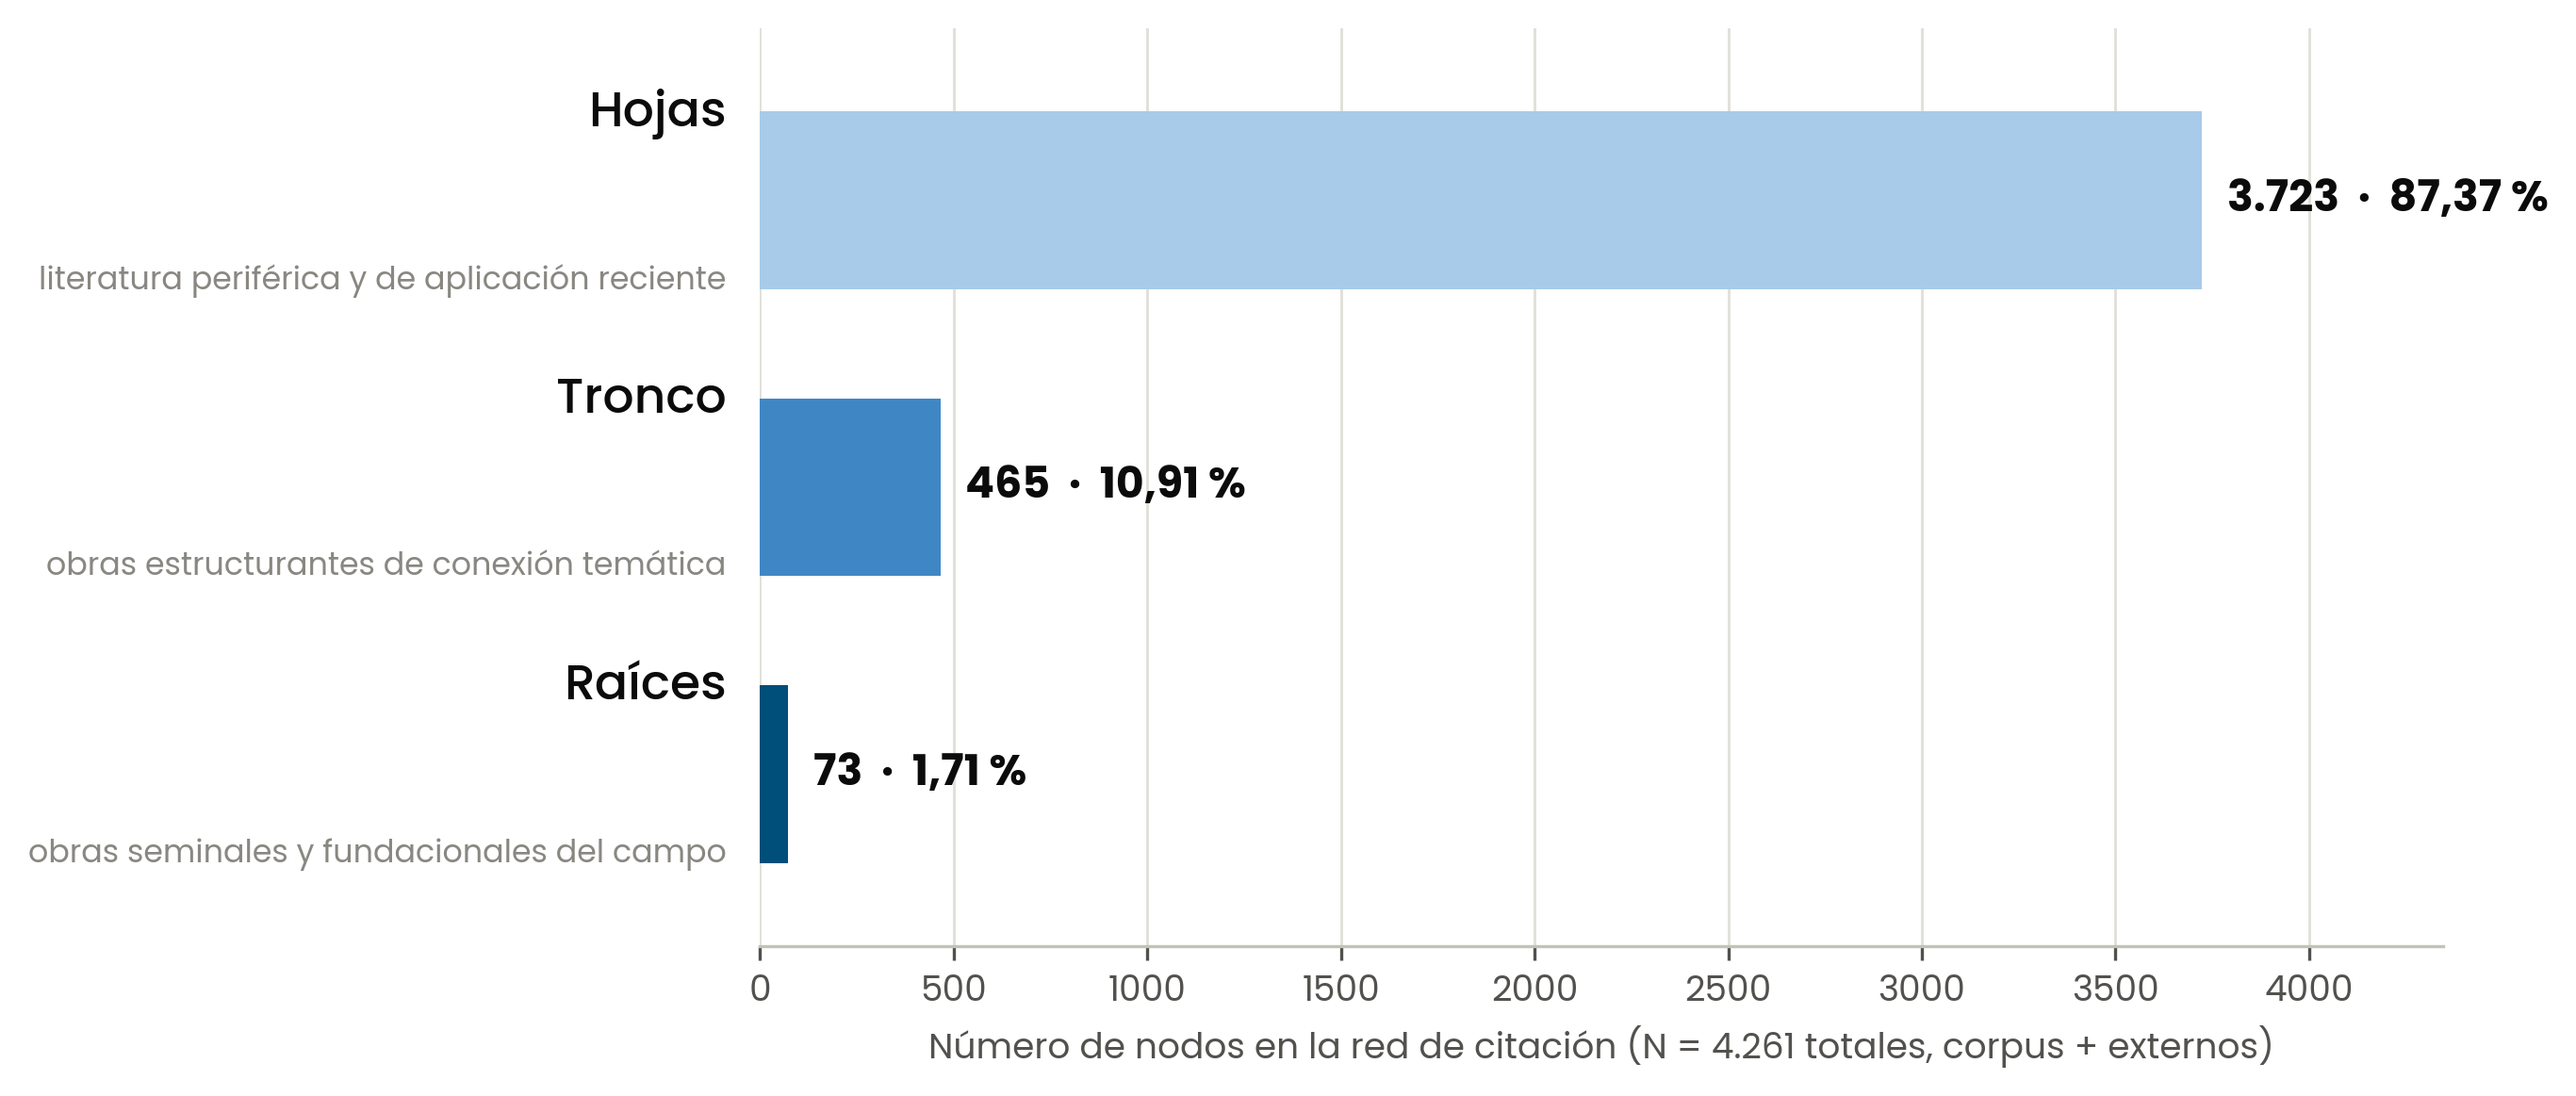
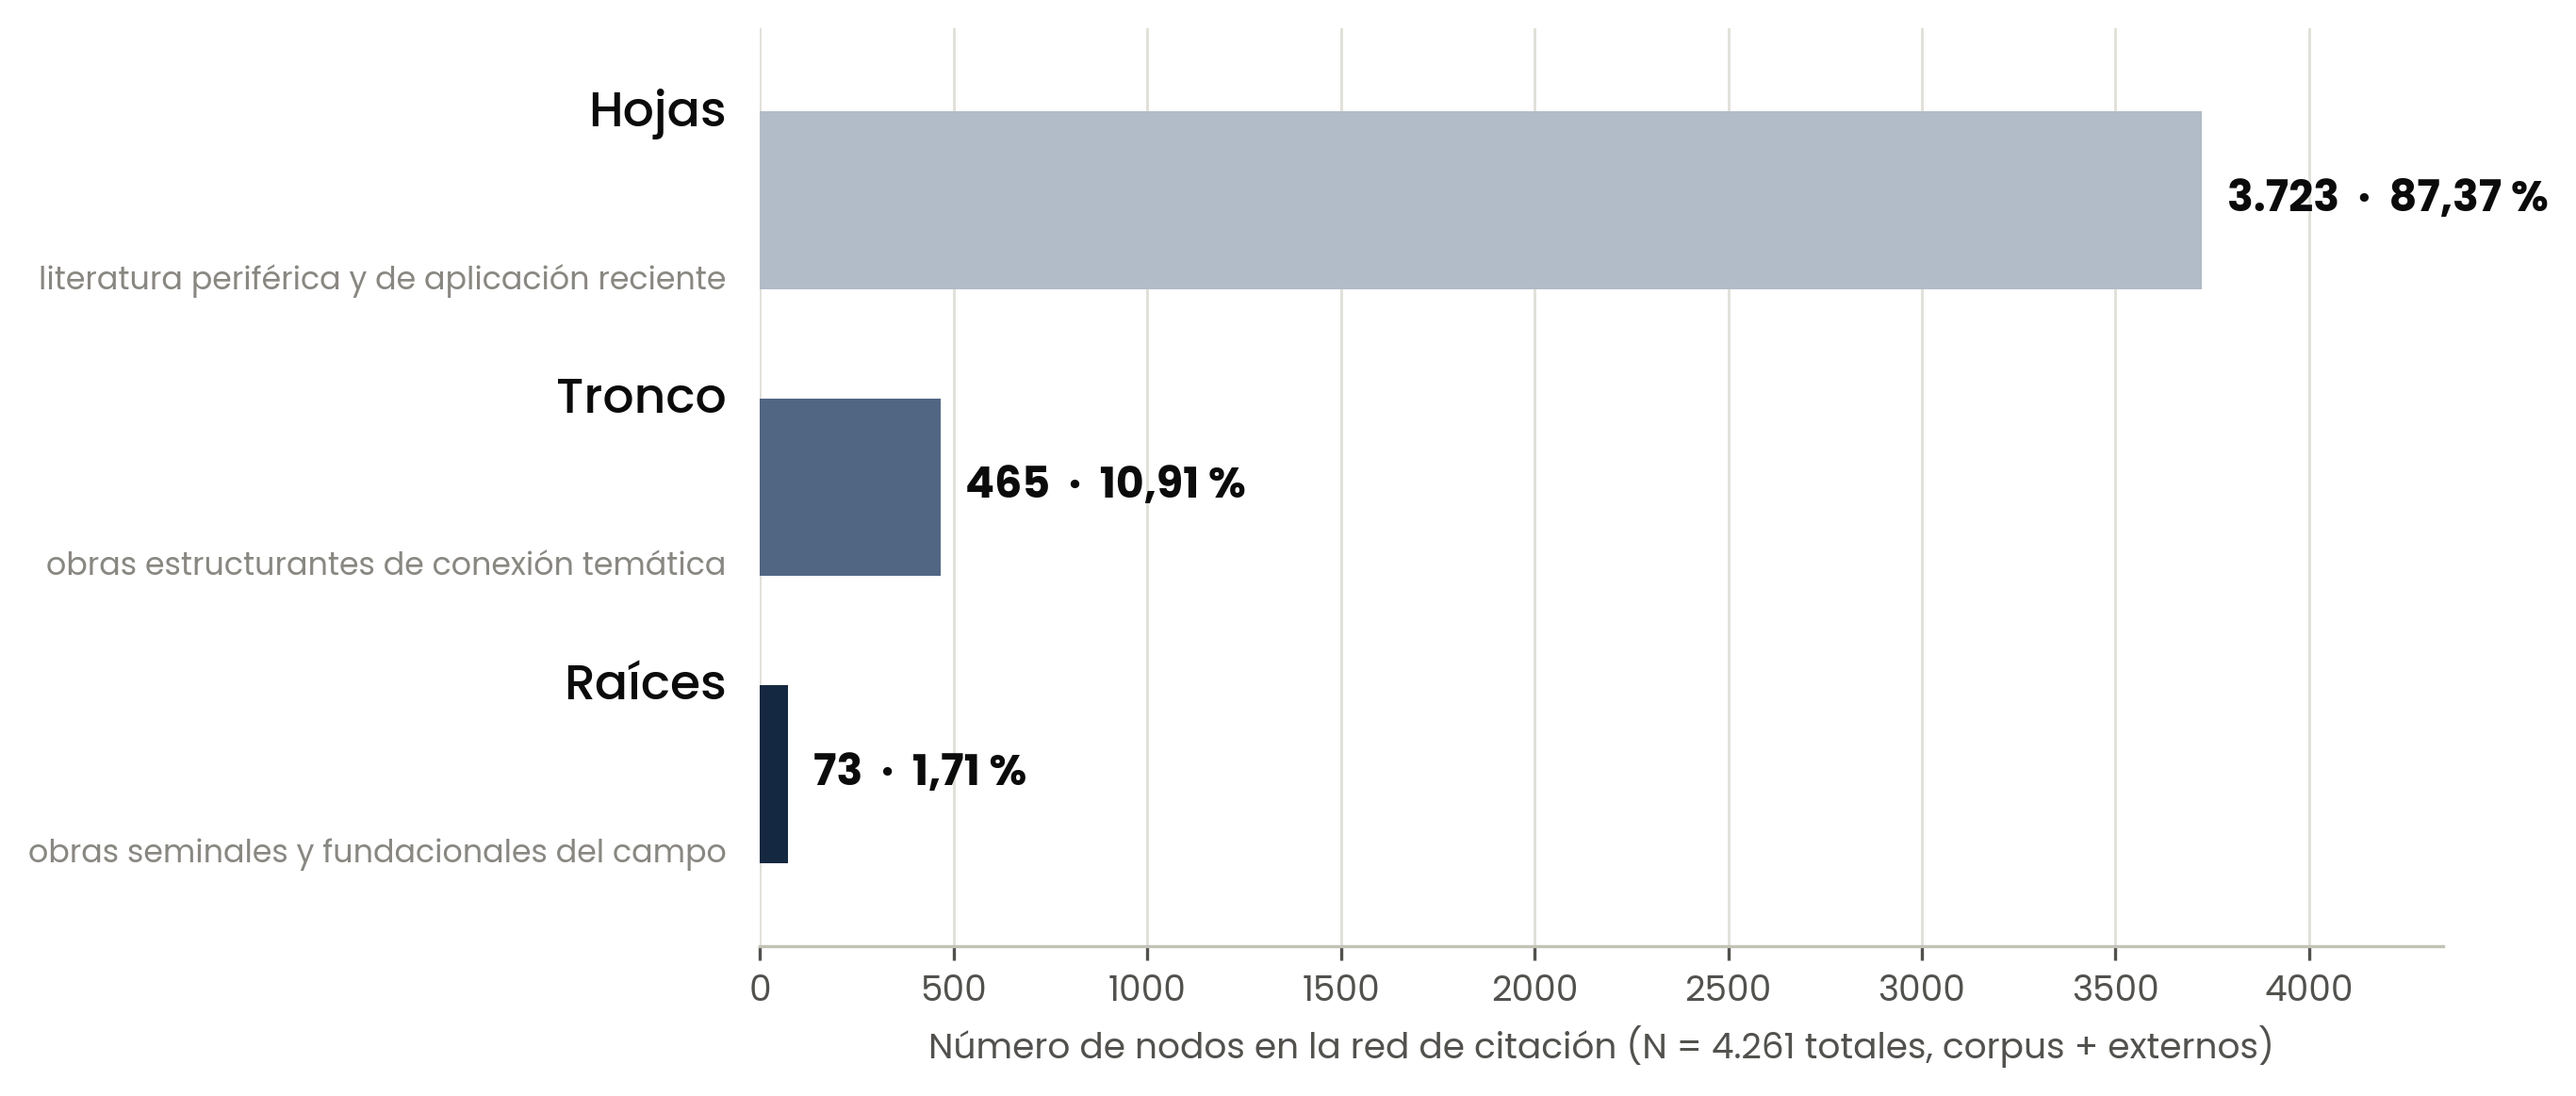
Figuras en paleta institucional (azul marino y grises)
Recolorea todas las figuras y los guiones que las generan; sin cambios de contenido ni de datos.
Figura 3.4 (prisma-repo): desglose de excluidos 161 + 48 + 8 = 217 y diagrama sin notas de proceso.

Claude-Session: https://claude.ai/code/session_0184E9JJGMmxaafh1wjWUT3s

Changed region(s): [[0.2799, 0.0929, 0.8708, 0.2786], [0.2799, 0.3405, 0.3732, 0.5262], [0.2799, 0.6191, 0.311, 0.8048]]

diff --git a/figures/style.py b/figures/style.py
@@ -19,12 +19,12 @@ plt.rcParams['font.family'] = 'Poppins'
 plt.rcParams['font.size'] = 11
 
 # --- Paleta categórica (orden fijo, nunca ciclado) ---
-CAT = {  # paleta Okabe-Ito
-    'C1': '#0072B2',  # azul
-    'C2': '#E69F00',  # naranja
-    'C3': '#009E73',  # verde azulado
-    'C4': '#D55E00',  # bermellón
-    'C5': '#CC79A7',  # púrpura rojizo
+CAT = {  # paleta institucional (azul marino y grises)
+    'C1': '#1F3A5F',  # azul
+    'C2': '#8C8C8C',  # naranja
+    'C3': '#4F6D8F',  # verde azulado
+    'C4': '#3F3F3F',  # bermellón
+    'C5': '#8A7D72',  # púrpura rojizo
 }
 CAT_ORDER = ['C1', 'C2', 'C3', 'C4', 'C5']
 
@@ -37,18 +37,18 @@ BASELINE = '#c3c2b7'
 SURFACE = '#fcfcfb'
 
 # --- Secuencial (un solo tono, azul, claro->oscuro) ---
-SEQ_BLUE = ['#d6e8f5', '#a8cbe9', '#6fa6d8', '#3f87c4', '#0072B2', '#004e7a']  # un solo tono: azul Okabe-Ito
+SEQ_BLUE = ['#E3E8EF', '#C2CCD9', '#8C9DB4', '#55698A', '#1F3A5F', '#14243D']  # un solo tono: azul azul marino y grises
 SEQ_BLUE_CMAP = LinearSegmentedColormap.from_list('seq_blue', SEQ_BLUE)
 
 # --- Divergente (azul <-> rojo, punto medio gris neutro) ---
-DIV_BLUE = '#0072B2'
+DIV_BLUE = '#1F3A5F'
 DIV_MID = '#f0efec'
-DIV_RED = '#D55E00'
-DIV_CMAP = LinearSegmentedColormap.from_list('div_blue_red', [DIV_BLUE, '#7fb2d6', DIV_MID, '#ebae80', DIV_RED])
+DIV_RED = '#3F3F3F'
+DIV_CMAP = LinearSegmentedColormap.from_list('div_blue_red', [DIV_BLUE, '#8FA2BA', DIV_MID, '#9E9E9E', DIV_RED])
 
 # --- Estado ---
-STATUS_GOOD = '#0ca30c'
-STATUS_CRITICAL = '#d03b3b'
+STATUS_GOOD = '#1F3A5F'
+STATUS_CRITICAL = '#3F3F3F'
 
 
 def new_fig(w=7.5, h=5.0):
